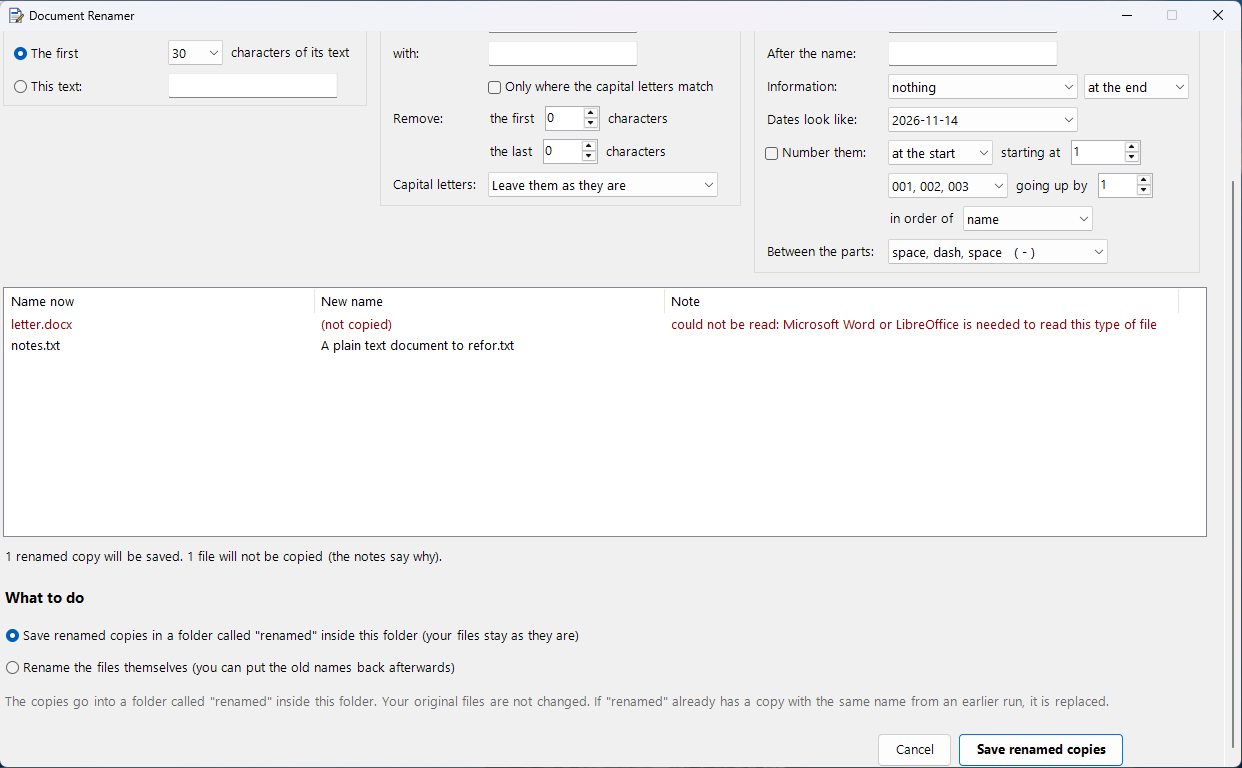
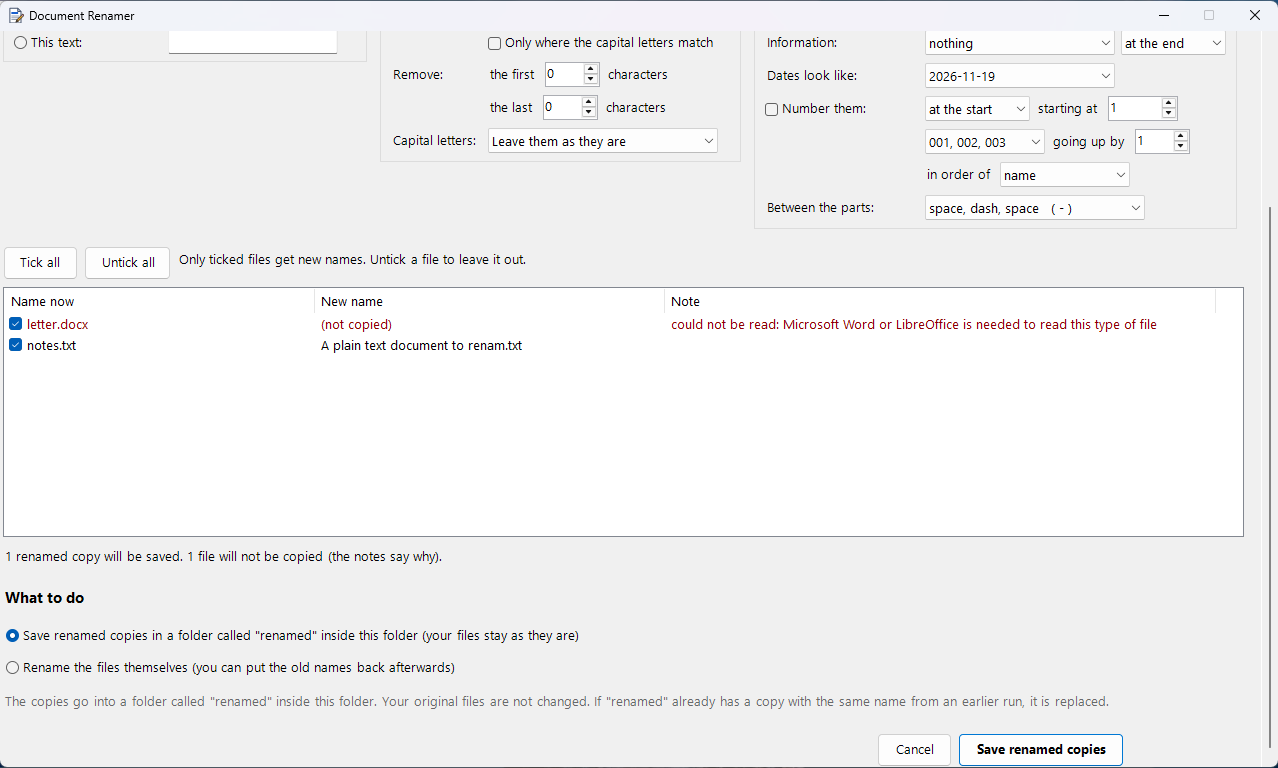
Document Renamer 1.1: README row, PAD file and picture; licence words for the PowerShell apps; Document Reformatter's PAD says Word once

diff --git a/README.md b/README.md
@@ -18,7 +18,7 @@ Go to **[Releases](../../releases)** and download the Setup.exe for the app you 
 | Photos to Word | Turns photos of printed pages into Word files you can edit. Pick a folder of photos; the text is read and laid out like the page. |
 | Combine Document Files | Joins Word and RTF files into one, in the order you choose, each keeping its own look. Tick the files to join; save as .docx, .doc, .rtf or PDF. (Called Combine Word Files up to 1.0.1.) |
 | Document Reformatter | Gives every Word, RTF and text file in a folder one new font, size and spacing. Joins lines broken at every line end and splits giant run-together paragraphs. The originals are kept, unchanged, in an Originals folder. **Needs Microsoft Word.** |
-| Document Renamer | Renames a folder of files at once: from their first words, old names or your own text, with dates and numbers. Undo puts old names back. |
+| Document Renamer | Renames a folder of files at once, or just the ones you pick: from their first words, old names or your own text, with dates and numbers. Tick boxes leave any file out; Undo puts old names back. |
 | Find and Replace | Changes text in many Word, RTF and text files at once: words, formatting, beginnings, endings and sections between two phrases. Shows every change first. **Needs Microsoft Word for Word and RTF files.** |
 | Cross Folder Compare | Finds the photos and documents two folders have in common, even renamed, resized or re-saved. Can move the extra copies into a REMOVED BY DUPLICATE SCAN folder by one rule (keep the newer, older, bigger, smaller or sharper copy), with Undo. Never deletes anything. |
 | Duplicate File Finder | Finds exact copies and look-alike photos, videos and documents, and moves the extras to a review folder. Never deletes anything. |
@@ -53,6 +53,8 @@ Settings > Apps > Installed apps > pick the app > **Uninstall**.
 
 The apps are free. They are built with free parts such as Python, Qt (PySide6), FFmpeg, Tesseract OCR, OpenCV, LanguageTool, Java (Eclipse Temurin), mutagen, Chromaprint and soundcard. Their licenses,
 and where to get their source code, are in the `licenses` folder inside each installed app.
+Document Reformatter, Document Renamer and Find and Replace use only parts that come with Windows,
+so they have no `licenses` folder.
 
 Song Cleaner and Music Player are free software under the GNU GPL (version 3 or later). Their source code comes with them, in the `source` folder of the installed app, and as a zip on each release page.
 
